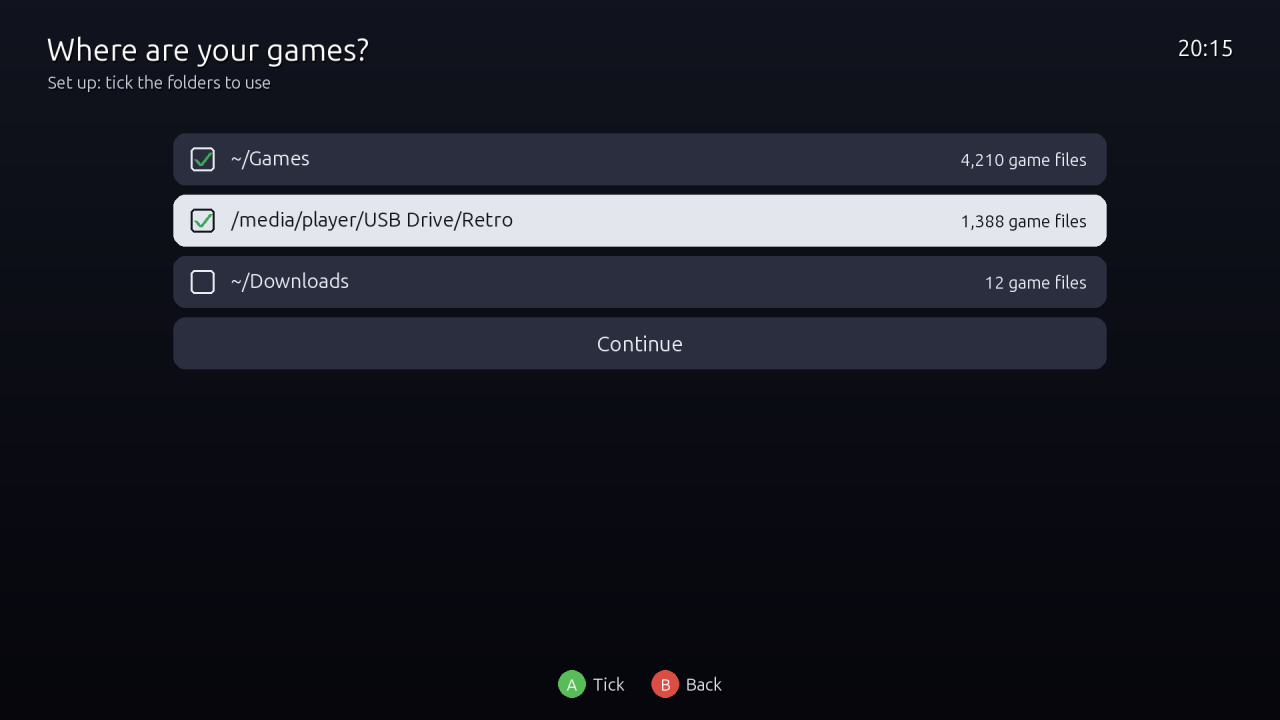
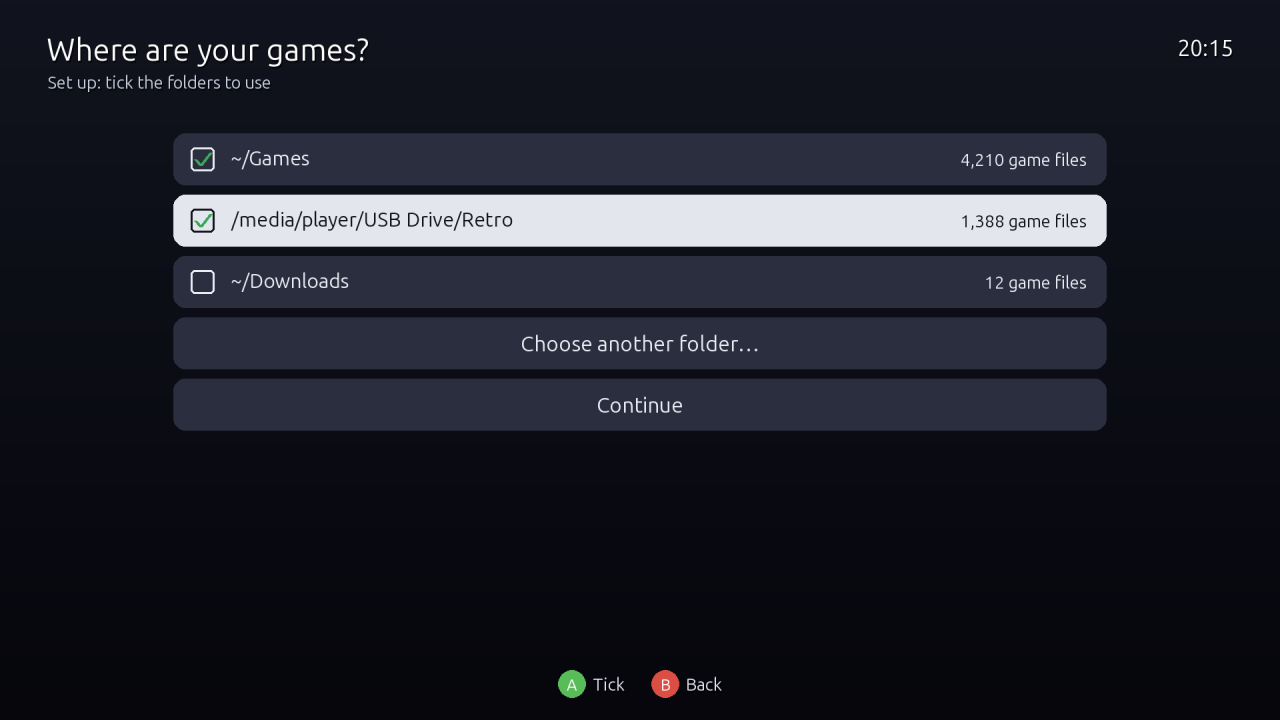
Setup: choose a folder by hand, and look under /mnt
The folders screen gets "Choose another folder…", a folder browser on the
pad (open folders with A, up one folder, Use this folder), for games kept
somewhere the search doesn't look. When nothing is found, the setup now
offers to choose a folder (A) or look again (Y). Disks mounted under /mnt
are searched too.

Changed region(s): [[0.125, 0.5194, 0.875, 0.6111], [0.4062, 0.4583, 0.5938, 0.4889]]

diff --git a/insertcoin/firstrun.py b/insertcoin/firstrun.py
@@ -2,6 +2,7 @@
 `insert-coin --setup`, and runs in a thread so the screen keeps moving.
 
   welcome -> looking -> folders (or nofolders) -> working -> art (if the art server has pictures) -> done
+                          folders / nofolders -> browse (choose a folder by hand) -> folders
 
 It opens by itself whenever the library has no games, and from the B menu ("Find games"). After it, the games
 that need a test start (and the box art, if wanted) carry on in the background; the home screen shows how far
@@ -33,6 +34,42 @@ class FirstRun:
         fr["found"], fr["pick"], fr["sel"] = found, {k for k, (_, _, likely) in enumerate(found) if likely}, 0
         fr["page"] = "folders" if found else "nofolders"
         log.info("Setup: %d folders with game files found", len(found))
+
+    def _count(self):
+        """The folder chosen by hand: how many game files it holds; it joins the list, ticked."""
+        fr = self.fr; folder = fr["bdir"]
+        def counted(n): fr["seen"] = n
+        try: n = setup.count_game_files(folder, progress=counted)
+        except Exception: log.exception("Setup: counting game files"); n = 0
+        if not n:
+            fr["page"] = "browse"; self.err(f"No game files in {short(folder)}"); return
+        known = [k for k, (f, _, _) in enumerate(fr["found"]) if f == folder]
+        if known: k = known[0]
+        else: fr["found"].append((folder, n, True)); k = len(fr["found"]) - 1
+        fr["pick"].add(k); fr["sel"] = k; fr["page"] = "folders"
+        log.info("Setup: folder chosen by hand: %s (%d game files)", folder, n)
+
+    # -- choosing a folder by hand
+    def open_browser(self):
+        fr = self.fr
+        fr["bfrom"] = fr["page"]; fr["page"] = "browse"
+        self.browse_to(fr.get("bdir") or HOME)
+
+    def browse_to(self, folder, sel_name=None):
+        fr = self.fr
+        fr["bdir"], fr["blist"] = folder, setup.subfolders(folder)
+        rows = self.browse_rows()
+        fr["bsel"] = next((k for k, (kind, name) in enumerate(rows) if name == sel_name), 0)
+
+    def browse_rows(self):
+        """[(kind, name)]: use this folder, up one folder (not at the top), then the folders in it."""
+        fr = self.fr
+        return [("use", None)] + ([("up", None)] if fr["bdir"] != "/" else []) + [("dir", d) for d in fr["blist"]]
+
+    def browse_up(self):
+        fr = self.fr
+        if fr["bdir"] == "/": return
+        self.browse_to(os.path.dirname(fr["bdir"]), sel_name=os.path.basename(fr["bdir"])); self.sfx.play("back")
 
     def _work(self):
         fr, folders = self.fr, self.fr["folders"]
@@ -74,16 +111,34 @@ class FirstRun:
         fr = self.fr; page = fr["page"]
         if act == "start": act = "go"
         if page in ("welcome", "nofolders"):
-            if act in ("a", "go"):
+            if page == "nofolders" and act in ("a", "go"): self.sfx.play("select"); self.open_browser()
+            elif act in ("a", "go") or (page == "nofolders" and act == "y"):
                 fr["page"] = "looking"; self.sfx.play("select"); self._thread(self._look)
             elif act == "b": self.leave_firstrun()
-        elif page == "folders":
-            n = len(fr["found"])                                         # rows: the folders, then Continue
+        elif page == "browse":
+            rows = self.browse_rows(); sel = fr["bsel"]
             if act in ("up", "down"):
-                new = max(0, min(n, fr["sel"] + (1 if act == "down" else -1)))
+                new = max(0, min(len(rows) - 1, sel + (1 if act == "down" else -1)))
+                if new != sel: fr["bsel"] = new; self.sfx.play("move")
+            elif act in ("lb", "rb"):
+                fr["bsel"] = max(0, min(len(rows) - 1, sel + (ROWS if act == "rb" else -ROWS))); self.sfx.play("move")
+            elif act == "left": self.browse_up()
+            elif act in ("a", "go", "right"):
+                kind, name = rows[sel]
+                if kind == "use" and act != "right":
+                    fr["page"] = "looking"; fr["seen"] = 0; self.sfx.play("select"); self._thread(self._count)
+                elif kind == "up": self.browse_up()
+                elif kind == "dir": self.browse_to(os.path.join(fr["bdir"], name)); self.sfx.play("select")
+            elif act == "b": fr["page"] = fr.get("bfrom", "folders"); self.sfx.play("back")
+        elif page == "folders":
+            n = len(fr["found"])                         # rows: the folders, Choose another folder (n), Continue (n + 1)
+            if act in ("up", "down"):
+                new = max(0, min(n + 1, fr["sel"] + (1 if act == "down" else -1)))
                 if new != fr["sel"]: fr["sel"] = new; self.sfx.play("move")
             elif act == "a" and fr["sel"] < n:
                 fr["pick"] ^= {fr["sel"]}; self.sfx.play("select")
+            elif act == "a" and fr["sel"] == n:
+                self.sfx.play("select"); self.open_browser()
             elif act in ("a", "go"):
                 if not fr["pick"]: self.err("Tick at least one folder (A)"); return
                 fr["folders"] = [fr["found"][k][0] for k in sorted(fr["pick"])]
@@ -164,20 +219,21 @@ class FirstRun:
             mid(f"{fr['seen']:,} folders looked through", 500, 30, (190, 195, 210))
         elif page == "nofolders":
             self.draw_header("Finding your games", "Set up")
-            mid("No game files were found.", 380, 44, (255, 255, 255), True)
-            mid("Copy your games into a folder in your home folder (for example Games),", 470)
-            mid("then look again.", 524)
-            self.draw_hints([("a", "Look again"), ("b", back)])
+            mid("No game files were found in your home folder or on your drives.", 380, 44, (255, 255, 255), True)
+            mid("Choose the folder your games are in, or copy them into your home folder", 470)
+            mid("(for example into a folder called Games) and look again.", 524)
+            self.draw_hints([("a", "Choose a folder"), ("y", "Look again"), ("b", back)])
         elif page == "folders":
             self.draw_header("Where are your games?", "Set up: tick the folders to use")
-            n = len(fr["found"]); top = max(0, min(fr["sel"] - ROWS // 2, n + 1 - ROWS))
-            for k in range(top, min(n + 1, top + ROWS)):
+            n = len(fr["found"]); top = max(0, min(fr["sel"] - ROWS // 2, n + 2 - ROWS))
+            for k in range(top, min(n + 2, top + ROWS)):
                 y = 200 + (k - top) * 92; on = fr["sel"] == k
                 r = pygame.Rect(260, y, W - 520, 78)
                 rrect(self.screen, (230, 232, 240) if on else (45, 48, 64), r, 18)
                 ink = (20, 22, 30) if on else (235, 238, 245)
-                if k == n:
-                    text(self.screen, self.fonts(32, True), "Continue", r.center, ink, anchor="center", shadow=False); continue
+                if k >= n:
+                    label = "Choose another folder…" if k == n else "Continue"
+                    text(self.screen, self.fonts(32, k > n), label, r.center, ink, anchor="center", shadow=False); continue
                 folder, files, _ = fr["found"][k]
                 box = pygame.Rect(r.x + 26, r.y + 21, 36, 36)
                 pygame.draw.rect(self.screen, ink, box, 3, border_radius=6)
@@ -185,7 +241,26 @@ class FirstRun:
                     pygame.draw.lines(self.screen, (60, 170, 90), False, [(box.x + 7, box.y + 18), (box.x + 15, box.y + 27), (box.x + 30, box.y + 8)], 5)
                 text(self.screen, self.fonts(30, True), short(folder), (r.x + 86, r.y + 20), ink, maxw=r.w - 420, shadow=False)
                 text(self.screen, self.fonts(26), f"{files:,} game files", (r.right - 30, r.y + 24), ink, anchor="topright", shadow=False)
-            self.draw_hints([("a", "Continue" if fr["sel"] == n else "Tick"), ("b", "Back")])
+            self.draw_hints([("a", "Continue" if fr["sel"] > n else "Choose" if fr["sel"] == n else "Tick"), ("b", "Back")])
+        elif page == "browse":
+            self.draw_header("Choose the folder your games are in", f"In {short(fr['bdir'])}")
+            rows = self.browse_rows(); sel = fr["bsel"]; top = max(0, min(sel - ROWS // 2, len(rows) - ROWS))
+            for k in range(top, min(len(rows), top + ROWS)):
+                kind, name = rows[k]; on = sel == k
+                r = pygame.Rect(260, 200 + (k - top) * 92, W - 520, 78)
+                rrect(self.screen, (230, 232, 240) if on else (45, 48, 64), r, 18)
+                ink = (20, 22, 30) if on else (235, 238, 245)
+                if kind == "use":
+                    text(self.screen, self.fonts(32, True), "Use this folder", r.center, ink, anchor="center", shadow=False)
+                elif kind == "up":
+                    text(self.screen, self.fonts(30), "‹  Up one folder", (r.x + 40, r.y + 20), ink, shadow=False)
+                else:
+                    text(self.screen, self.fonts(30, True), name, (r.x + 40, r.y + 20), ink, maxw=r.w - 120, shadow=False)
+                    text(self.screen, self.fonts(30), "›", (r.right - 40, r.y + 20), ink, anchor="topright", shadow=False)
+            if len(rows) == (1 if fr["bdir"] == "/" else 2):
+                mid("No folders in here.", 200 + len(rows) * 92 + 40, 30, (190, 195, 210))
+            kind = rows[sel][0]
+            self.draw_hints([("a", {"use": "Use this folder", "up": "Up", "dir": "Open"}[kind]), ("b", "Back")])
         elif page == "working":
             self.draw_header("Getting everything ready", "Set up: this takes a few minutes")
             for k, (key, title, status, note) in enumerate(fr["steps"]):

diff --git a/tests/test_setup.py b/tests/test_setup.py
@@ -48,6 +48,21 @@ class FindingFolders(unittest.TestCase):
         self.assertIn("not a number", setup.choose_folders(found, "9")[1])
 
 
+class ByHand(unittest.TestCase):
+    def test_disks_under_mnt_are_looked_through(self):
+        S.reset()
+        disk = f"{S.TMP}/mnt-here"; os.makedirs(f"{disk}/games-disk", exist_ok=True)
+        real = os.scandir
+        with mock.patch("os.scandir", lambda p: real(disk if p == "/mnt" else p)):
+            self.assertIn(f"{disk}/games-disk", setup.drives())
+
+    def test_counting_a_folder(self):
+        S.reset()
+        c = f"{S.TMP}/count"
+        files(c, ["a.nes", "b.zip", "notes.txt"]); files(f"{c}/sub", ["c.sfc"]); files(f"{c}/.hidden", ["d.nes"])
+        self.assertEqual(setup.count_game_files(f"{S.TMP}/count"), 3)
+
+
 class Steps(unittest.TestCase):
     def setUp(self):
         S.reset(); shutil.rmtree(bios.OWN_SYSTEM, ignore_errors=True)
@@ -189,7 +204,7 @@ class PadScreens(unittest.TestCase):
             self.press("a")
             self.assertEqual((app.fr["page"], app.fr["pick"]), ("folders", {0}))     # the likely one is ticked
             self.press("down", "a", "up", "a")                                         # tick the second, untick the first
-            self.press("down", "down", "a")                                            # Continue
+            self.press("down", "down", "down", "a")                                    # past Choose another folder: Continue
             self.assertEqual(app.fr["folders"], [f"{S.TMP}/b"])
             self.assertEqual(app.fr["page"], "art")
             steps = {k: (st, note) for k, _, st, note in app.fr["steps"]}
@@ -206,7 +221,7 @@ class PadScreens(unittest.TestCase):
     def test_nothing_ticked_and_no_folders(self):
         app = self.app
         with mock.patch.object(setup, "find_game_folders", return_value=[(f"{S.TMP}/b", 7, False)]):
-            self.press("a", "down", "a")
+            self.press("a", "down", "down", "a")
         self.assertEqual(app.fr["page"], "folders")                                    # nothing ticked: stays
         self.press("b", "b")
         self.assertFalse(app.running if hasattr(app, "running") else False)           # no games: B leaves
@@ -214,6 +229,53 @@ class PadScreens(unittest.TestCase):
         with mock.patch.object(setup, "find_game_folders", return_value=[]):
             self.press("a")
         self.assertEqual(app.fr["page"], "nofolders")
+
+    def to_row(self, name):
+        """Move the browser's selection onto a folder's row."""
+        rows = self.app.browse_rows()
+        k = next(i for i, (kind, n) in enumerate(rows) if n == name)
+        self.app.fr["bsel"] = 0; self.press(*["down"] * k)
+
+    def test_choosing_a_folder_by_hand(self):
+        app = self.app
+        games = f"{S.TMP}/Stuff/My Games"
+        files(games, [f"Game {k}.nes" for k in range(6)])
+        os.makedirs(f"{S.TMP}/Stuff/Empty", exist_ok=True); os.makedirs(f"{S.TMP}/.hidden", exist_ok=True)
+        with mock.patch.object(setup, "find_game_folders", return_value=[(f"{S.TMP}/b", 7, False)]):
+            self.press("a")
+        self.press("down", "a")                                                        # Choose another folder…
+        self.assertEqual((app.fr["page"], app.fr["bdir"]), ("browse", paths.HOME))
+        self.assertNotIn(".hidden", app.fr["blist"])
+        self.to_row("Stuff"); self.press("a")
+        self.assertEqual(app.fr["bdir"], f"{S.TMP}/Stuff")
+        self.to_row("Empty"); self.press("a")
+        self.press("a")                                                                # Use this folder: no games in it
+        self.assertEqual(app.fr["page"], "browse")
+        self.press("left")                                                             # up, onto the folder it was in
+        self.assertEqual((app.fr["bdir"], app.browse_rows()[app.fr["bsel"]][1]), (f"{S.TMP}/Stuff", "Empty"))
+        self.to_row("My Games"); self.press("a")
+        self.press("a")                                                                # Use this folder
+        self.assertEqual(app.fr["page"], "folders")
+        self.assertEqual(app.fr["found"][-1], (games, 6, True))
+        self.assertEqual((app.fr["pick"], app.fr["sel"]), ({1}, 1))                    # ticked and selected
+        self.press("down", "a")                                                        # the same folder again: no new row
+        self.assertEqual(app.fr["bdir"], games)                                        # the browser opens where it was
+        self.press("a"); self.assertEqual((len(app.fr["found"]), app.fr["pick"]), (2, {1}))
+        app._thread = lambda target: None                                              # don't start the real work
+        self.press("down", "down", "a")
+        self.assertEqual((app.fr["page"], app.fr["folders"]), ("working", [games]))
+
+    def test_no_folders_found_offers_choosing_one(self):
+        app = self.app
+        with mock.patch.object(setup, "find_game_folders", return_value=[]):
+            self.press("a")
+            self.assertEqual(app.fr["page"], "nofolders")
+            self.press("a"); self.assertEqual(app.fr["page"], "browse")
+            self.press("b"); self.assertEqual(app.fr["page"], "nofolders")             # back where it came from
+            self.press("y"); self.assertEqual(app.fr["page"], "nofolders")             # looked again
+        self.press("a"); self.press("up")
+        self.assertEqual(app.browse_rows()[0][0], "use")
+        app.browse_to("/"); self.assertNotIn(("up", None), app.browse_rows())          # nothing above the top
 
     def test_the_background_run_shows_and_its_games_appear(self):
         app = self.app

diff --git a/insertcoin/setup.py b/insertcoin/setup.py
@@ -1,7 +1,8 @@
 """First-run setup (1.0 step 3): everything a new computer needs, in one go. The pad screens (firstrun.py) and
 `insert-coin --setup` in a terminal both use these functions, so they always do the same thing.
 
-1. find the folders that hold game files (the home folder and plugged-in drives), for the player to choose from;
+1. find the folders that hold game files (the home folder, plugged-in drives and disks under /mnt), for the player
+   to choose from, or let them choose one by hand;
 2. get the game databases (--databases), the emulator cores (--cores) and the BIOS folder (--bios, plus any BIOS
    files found in the chosen folders);
 3. scan the chosen folders and add the games the databases recognise by checksum (on an empty library);
@@ -28,13 +29,34 @@ def game_exts():
 
 
 def drives():
-    """Plugged-in drives and other mounted disks the user can read."""
+    """Plugged-in drives (/media/<user>, /run/media/<user>) and disks mounted by hand under /mnt, if readable."""
     user = os.path.basename(HOME)
     out = []
-    for base in (f"/media/{user}", f"/run/media/{user}"):
-        try: out += sorted(e.path for e in os.scandir(base) if e.is_dir())
+    for base in (f"/media/{user}", f"/run/media/{user}", "/mnt"):
+        try: out += sorted(e.path for e in os.scandir(base) if e.is_dir() and os.access(e.path, os.R_OK | os.X_OK))
         except OSError: pass
     return out
+
+
+def subfolders(path):
+    """The folders in a folder, for choosing one by hand: hidden ones left out, sorted by name."""
+    try: return sorted((e.name for e in os.scandir(path) if not e.name.startswith(".") and e.is_dir()), key=str.lower)
+    except OSError: return []
+
+
+def count_game_files(folder, progress=None):
+    """Game files in a folder and below it, by the same rules as find_game_folders."""
+    roms, archives = game_exts(); exts = roms | archives
+    n = seen = 0; visited = set()
+    for d, dirs, files in os.walk(folder, followlinks=True):
+        real = os.path.realpath(d)
+        if real in visited: dirs[:] = []; continue
+        visited.add(real)
+        dirs[:] = [x for x in dirs if not x.startswith(".") and x not in SKIP]
+        seen += 1
+        if progress and seen % 500 == 0: progress(seen)
+        n += sum(os.path.splitext(f)[1].lower() in exts for f in files)
+    return n
 
 
 def find_game_folders(roots=None, progress=None):
@@ -285,7 +307,7 @@ def terminal(folders, ask=input, interactive=None):
     line = Progress()
     print("Insert Coin setup\n")
     if not folders:
-        print("Looking for folders with game files (your home folder and plugged-in drives)...")
+        print("Looking for folders with game files (your home folder and drives)...")
         found = find_game_folders(progress=lambda n: line.show(f"  {n:,} folders..."))
         line.clear()
         if not found:

diff --git a/README.md b/README.md
@@ -522,9 +522,11 @@ When Insert Coin starts with no games, it sets itself up, all on the controller:
 |---|---|
 | ![Setup: the folders with game files, two of three ticked, and Continue](docs/screenshots/setup_folders.png) | ![Setup: databases, cores, BIOS and the scan done, adding the recognised games](docs/screenshots/setup_working.png) |
 
-1. **Where are your games?** It looks through your home folder and plugged-in drives (linked folders too) for
-   game files, and lists the folders that hold them, with how many game files each has. The likely ones are
-   ticked; **A** ticks or unticks a folder, **Continue** goes on.
+1. **Where are your games?** It looks through your home folder, plugged-in drives and disks mounted under
+   `/mnt` (linked folders too) for game files, and lists the folders that hold them, with how many game files
+   each has. The likely ones are ticked; **A** ticks or unticks a folder, **Continue** goes on. Games somewhere
+   else? **Choose another folder…** opens a folder browser on the controller: open folders with **A**, go up
+   with *Up one folder* (or left), and pick the one with *Use this folder*.
 2. **Getting everything ready:** the game databases, the emulator cores and the BIOS folder (BIOS files lying
    among your games are picked up too: only known good ones, never replacing one). Then it scans the folders
    and adds every game the databases recognise by checksum, straight away.
